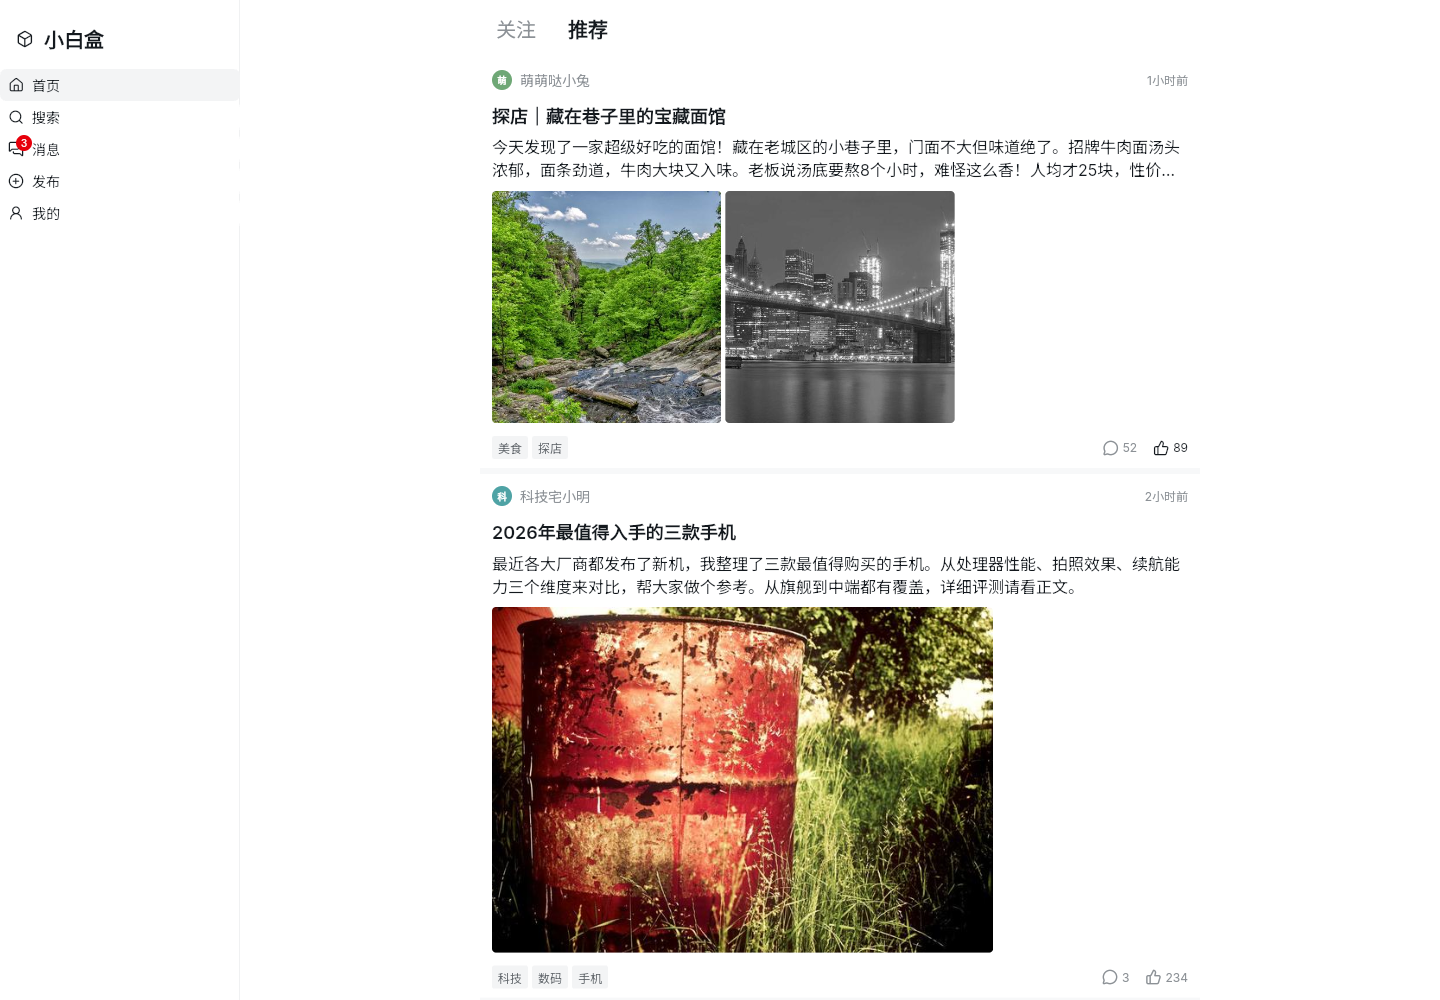
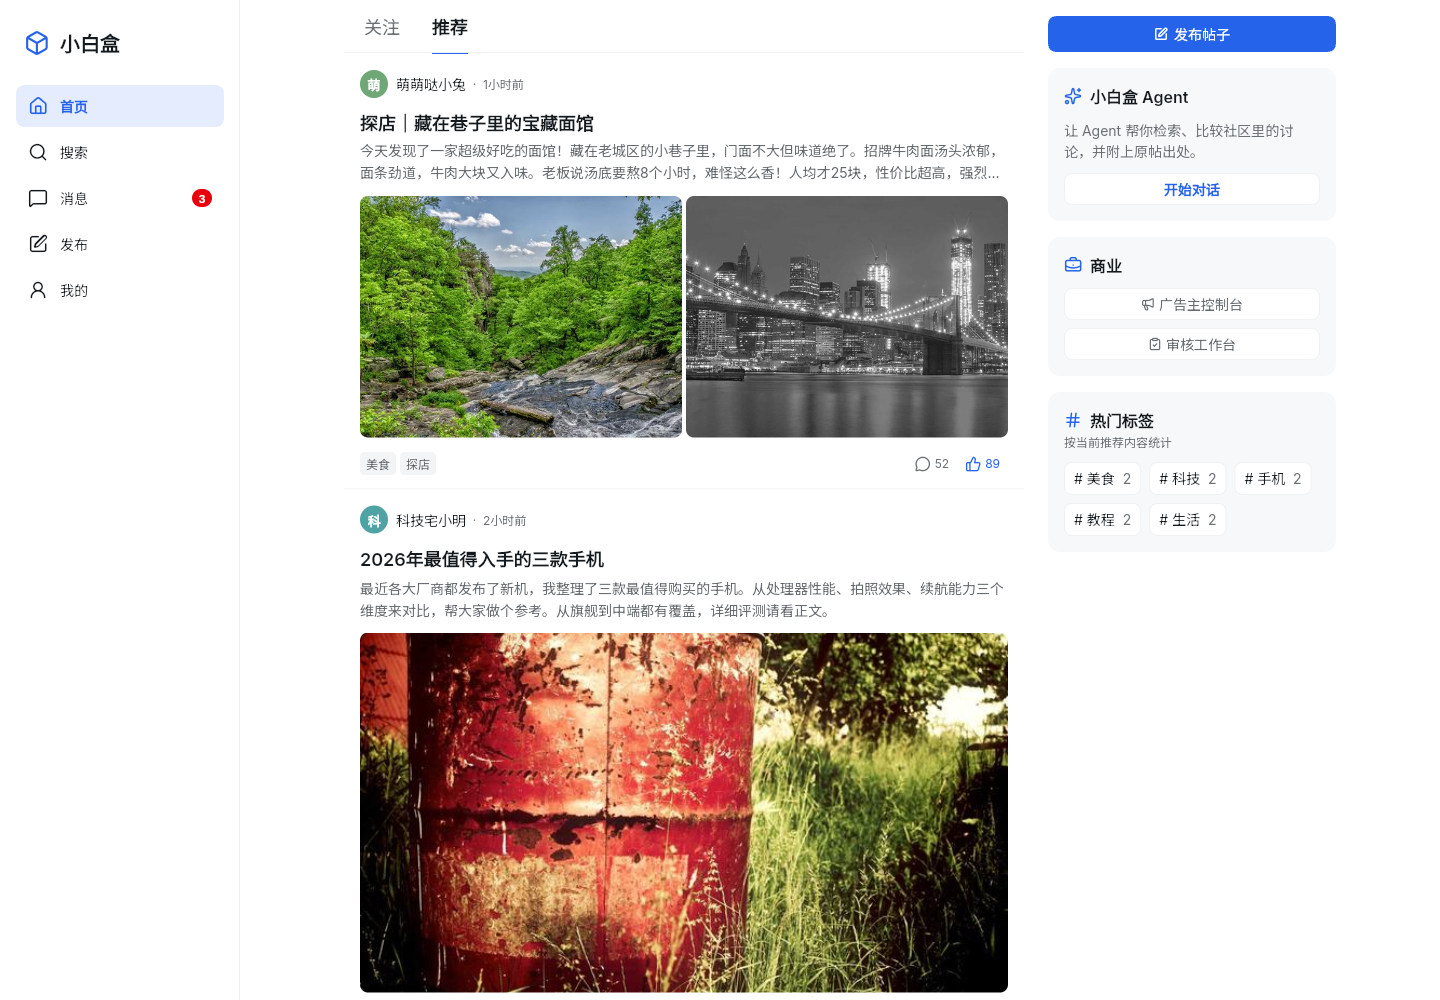
docs(readme): refresh client screenshots with redesigned UI, ads and review

diff --git a/docs/assets/screenshots/README.md b/docs/assets/screenshots/README.md
@@ -1,24 +1,32 @@
 # README 界面截图
 
-这些图片用于前端与根仓 README 的界面展示，复用 2026-09-06 上一轮浏览器记录，原图未经裁剪、重绘
-或内容替换。本次仅将选定原图持久化到仓库，没有重新拍摄，也不升级正式知识中的验收状态。
+这些图片用于前端与根仓 README 的界面展示，2026-10-04 在前端提交
+`4d8138c6eacd4fd88fda49c8748707541a6d9124` 上重新拍摄，替换 2026-09-06 的旧图。旧图早于
+2026-09-26 的界面重构，也没有广告与审核界面；改造前后对比见
+[界面重构证据](../../knowledge/evidence/EVD-ui-redesign-2026-09-26.md)。图片未经裁剪、重绘或内容替换。
 
-| 图片 | 来源与主题 | 原始文件 | 尺寸 |
+| 图片 | 来源与主题 | 页面 | 尺寸 |
 | --- | --- | --- | --- |
-| [桌面内容流](mock-desktop-feed.png) | Mock，亮色 | `web-navigation-final/desktop-light-feed.png` | 1440 × 1000 |
-| [移动端搜索](mock-mobile-search-dark.png) | Mock，暗色 | `web-navigation-final/mobile-dark-search-results.png` | 390 × 844 |
-| [Agent 澄清](mock-mobile-clarification.png) | Mock，亮色 | `assistant-browser-final/mobile-light-questions.png` | 390 × 844 |
-| [帖子详情](real-mobile-post.png) | 真实本地联调，亮色，开发测试数据 | `real-browser/mobile-light-post.png` | 390 × 844 |
+| [桌面内容流](mock-desktop-feed.png) | Mock，亮色 | `/feed`，含侧栏「商业」入口 | 1440 × 1000 |
+| [推荐流广告](mock-mobile-feed-ad.png) | Mock，亮色 | `/feed` 下滑至第一个广告槽位 | 390 × 844 |
+| [移动端搜索](mock-mobile-search-dark.png) | Mock，暗色 | `/search`，查询「手机」 | 390 × 844 |
+| [Agent 澄清](mock-mobile-clarification.png) | Mock，亮色 | `/messages/assistant`，比较类提问触发结构化澄清 | 390 × 844 |
+| [广告主控制台](mock-mobile-ads.png) | Mock，亮色 | `/ads` | 390 × 844 |
+| [审核工作台](mock-mobile-review.png) | Mock，亮色 | `/review` | 390 × 844 |
+| [回扫审核任务](mock-mobile-review-task.png) | Mock，亮色 | `/review/tasks/9006`，回扫暂停后的人审任务 | 390 × 844 |
+| [帖子详情](real-mobile-post.png) | 真实本地联调，亮色，开发测试数据 | `/post/1001`，以测试账号 `admin` 登录 | 390 × 844 |
 
-原始归档目录为 `/tmp/xbh-heybox-migration-20260906.4EhL6I`，上述路径均相对该目录。
-该临时目录可能被清理；README 只引用本目录已入库的图片，不依赖 `/tmp` 存续。
+采集方式：
 
-Mock 的观察提交为 `9b3fba2004ad39275963ac512df3ebe6caa65c2a`，采集环境与边界见
-[当轮视觉记录](../../knowledge/evidence/EVD-heybox-presentation-2026-09-06.md)。真实联调截图来自当轮
-`:3002` 本地栈，独立运行记录见
-[根仓现场笔记](https://github.com/3219378872/little-white-box/blob/f320a8515b82d00549f5d1c5584187234a3c4880/NOTES.md)。
-真实联调和 Mock 是两类来源，不从 Mock 截图推断真实接口或模型结果，也不将历史截图当成当前 HEAD
-的浏览器、设备或生产验收证明。
+- Mock：`make build-web` 构建 `lib/main_mock.dart` release 包，以根仓 `deploy/dev/serve_release.py`
+  本地伺服；Playwright Chromium，`device_scale_factor=1`，`locale=zh-CN`，暗色图使用
+  `color_scheme=dark`。Mock 初始用户同时是广告主与审核员，数据均为仓库内演示数据。
+- 真实联调：根仓 `9908d0d`（后端 `58f7d09`、前端 `4d8138c`）执行 `just up` 后的 `:3002` 同源入口，
+  `/api/v1/health/ready` 为 ready；同样以 Playwright 拍摄。帖子 1001 来自后端 `eval/corpus.json`
+  开发语料，不是用户数据。
+
+真实联调和 Mock 是两类来源，不从 Mock 截图推断真实接口、模型或审核结果；这些截图只用于 README
+展示，不是正式证据，也不升级任何条款的验收状态或证明浏览器、设备与生产验收。
 
 前端 README 使用同仓相对路径；根仓使用固定前端提交的 raw 图片地址复用同一份资产。更新截图时
 应同步来源、日期和根仓引用，不把旧图静默解释成新版本画面。

diff --git a/README.md b/README.md
@@ -12,21 +12,33 @@
 
 ## 界面预览
 
-以下复用 2026-09-06 上一轮浏览器截图。Mock 使用演示数据，真实联调图来自本地测试栈；均不是生产
-数据或当前版本的完整验收结论。[截图来源与说明](docs/assets/screenshots/README.md)。
+以下为 2026-10-04 在当前界面上重新拍摄的浏览器截图。Mock 使用演示数据，真实联调图来自本地测试栈；
+均不是生产数据或当前版本的完整验收结论。[截图来源与说明](docs/assets/screenshots/README.md)。
 
 ### 桌面内容流 · Mock
 
-![桌面亮色内容流，Mock 演示数据，2026-09-06](docs/assets/screenshots/mock-desktop-feed.png)
+![桌面亮色内容流与侧栏商业入口，Mock 演示数据，2026-10-04](docs/assets/screenshots/mock-desktop-feed.png)
 
-### 移动端
+### 移动端 · 社区与 Agent
 
-依次为：暗色搜索结果（Mock）、Agent 澄清问答（Mock）、帖子详情（真实联调）。窄屏下图片依次换行。
+依次为：推荐流广告槽位（Mock）、暗色搜索结果（Mock）、Agent 澄清问答（Mock）、帖子详情（真实联调）。
+窄屏下图片依次换行。
 
 <p>
-  <img src="docs/assets/screenshots/mock-mobile-search-dark.png" alt="暗色搜索结果，Mock 演示数据，2026-09-06" title="暗色搜索结果 · Mock" width="260">
-  <img src="docs/assets/screenshots/mock-mobile-clarification.png" alt="Agent 澄清问答，Mock 演示数据，2026-09-06" title="Agent 澄清问答 · Mock" width="260">
-  <img src="docs/assets/screenshots/real-mobile-post.png" alt="帖子详情，真实本地联调测试数据，2026-09-06" title="帖子详情 · 真实联调" width="260">
+  <img src="docs/assets/screenshots/mock-mobile-feed-ad.png" alt="推荐流中带标识的广告槽位，Mock 演示数据，2026-10-04" title="推荐流广告 · Mock" width="200">
+  <img src="docs/assets/screenshots/mock-mobile-search-dark.png" alt="暗色搜索结果，Mock 演示数据，2026-10-04" title="暗色搜索结果 · Mock" width="200">
+  <img src="docs/assets/screenshots/mock-mobile-clarification.png" alt="Agent 澄清问答，Mock 演示数据，2026-10-04" title="Agent 澄清问答 · Mock" width="200">
+  <img src="docs/assets/screenshots/real-mobile-post.png" alt="帖子详情，真实本地联调测试数据，2026-10-04" title="帖子详情 · 真实联调" width="200">
+</p>
+
+### 移动端 · 广告与审核
+
+依次为：广告主控制台、审核工作台、回扫暂停后的审核任务，均为 Mock 演示数据。
+
+<p>
+  <img src="docs/assets/screenshots/mock-mobile-ads.png" alt="广告主控制台，Mock 演示数据，2026-10-04" title="广告主控制台 · Mock" width="200">
+  <img src="docs/assets/screenshots/mock-mobile-review.png" alt="审核工作台，Mock 演示数据，2026-10-04" title="审核工作台 · Mock" width="200">
+  <img src="docs/assets/screenshots/mock-mobile-review-task.png" alt="回扫审核任务，Mock 演示数据，2026-10-04" title="回扫审核任务 · Mock" width="200">
 </p>
 
 ## 定位与界面能力
